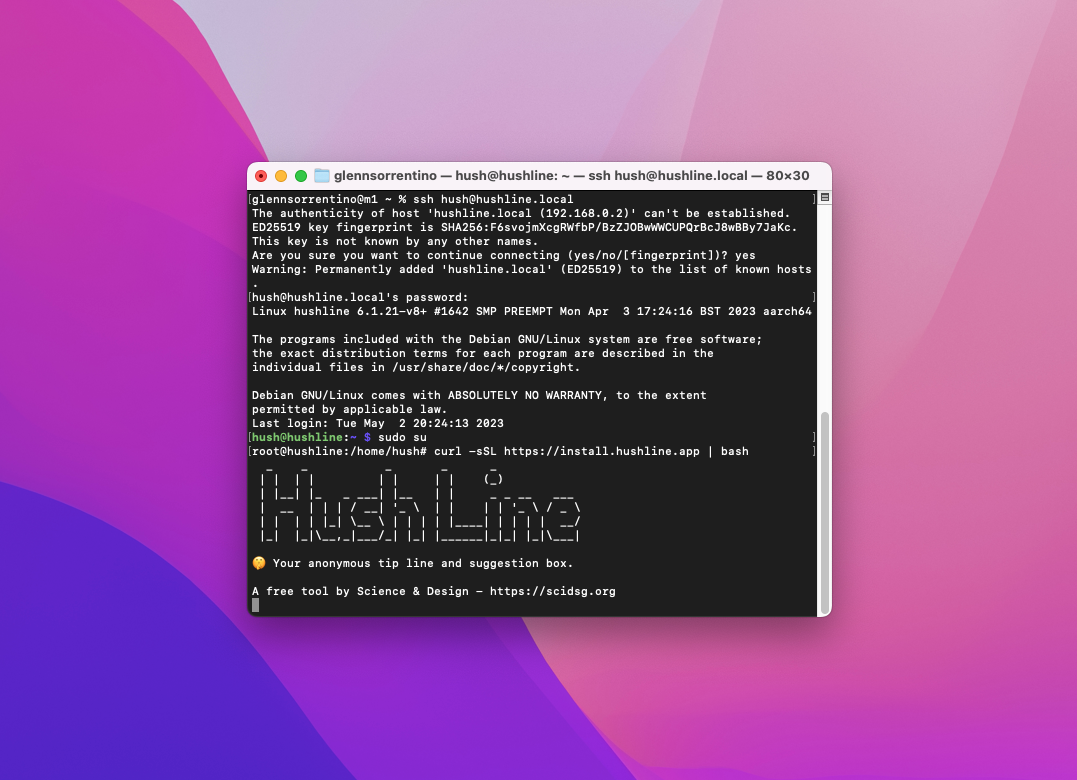
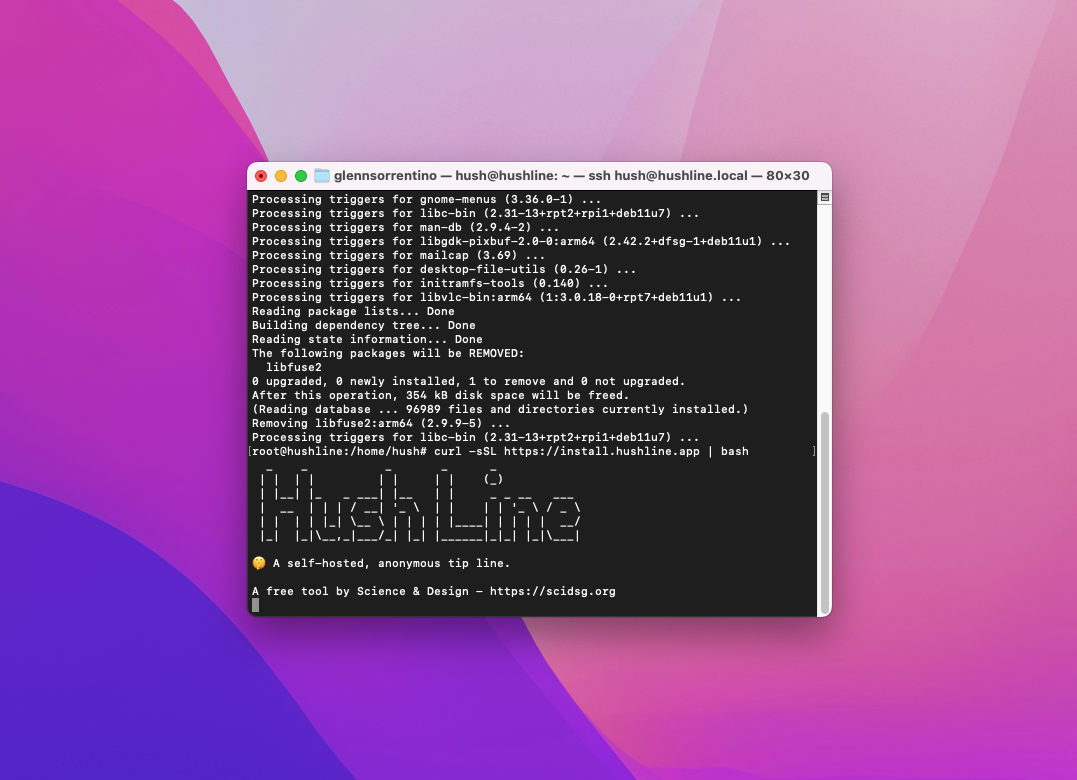
add prereq images

Changed region(s): [[0.2145, 0.2462, 0.766, 0.5846], [0.2451, 0.7077, 0.5209, 0.7385]]

diff --git a/src/installation/public-web.md b/src/installation/public-web.md
@@ -8,9 +8,11 @@ First, we'll give ourselves admin priviledges, then update our system:
 
 If you aren't an admin or root yet, enter `sudo su`, then `apt update && apt -y dist-upgrade && apt -y autoremove`.
 
+<img src="../img/33-update.png">
+
 ## 1. Run The Installer
 
-After logging in to either your Raspberry Pi or VPS, enter the following command to start the installation process:
+After logging in to and updating either your Raspberry Pi or VPS, enter the following command to start the installation process:
 
 `curl -sSL https://install.hushline.app | bash`
 

diff --git a/src/installation/tor-only.md b/src/installation/tor-only.md
@@ -8,9 +8,11 @@ First, we'll give ourselves admin priviledges, then update our system:
 
 If you aren't an admin or root yet, enter `sudo su`, then `apt update && apt -y dist-upgrade && apt -y autoremove`.
 
+<img src="../img/21-update.png">
+
 ## 1. Run The Installer
 
-After logging in to either your Raspberry Pi or VPS, enter the following command to start the installation process:
+After logging in to and updating either your Raspberry Pi or VPS, enter the following command to start the installation process:
 
 `curl -sSL https://install.hushline.app | bash`
 
